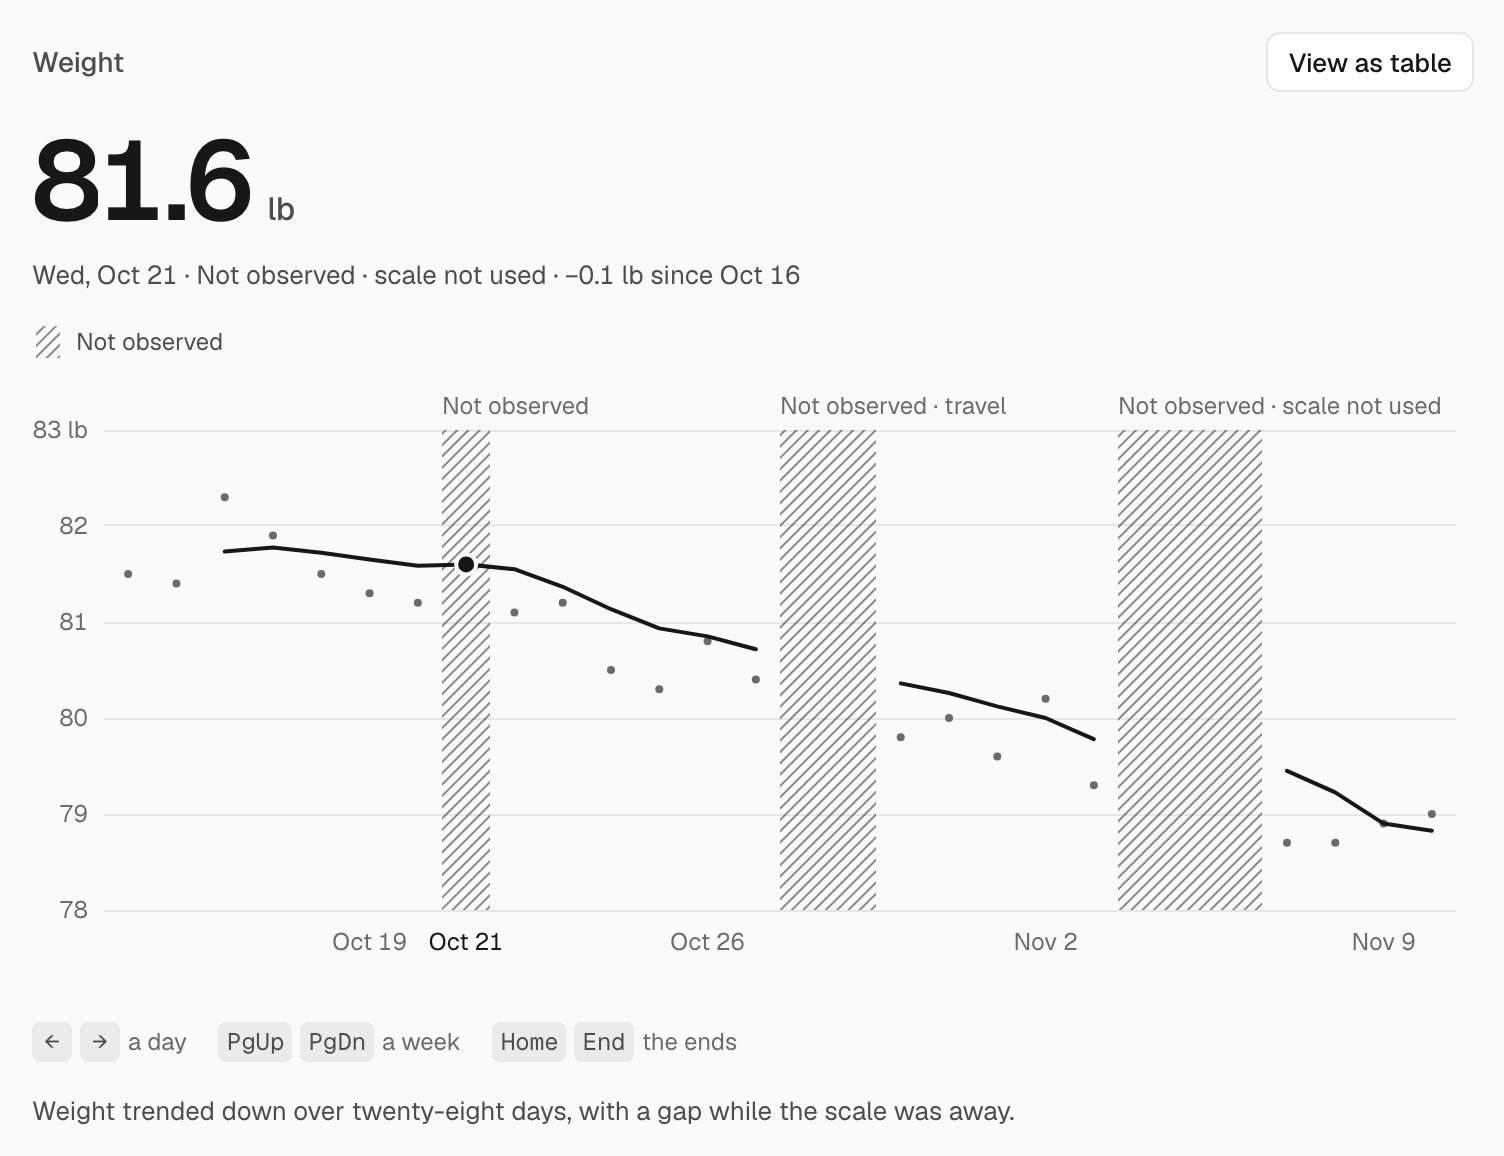
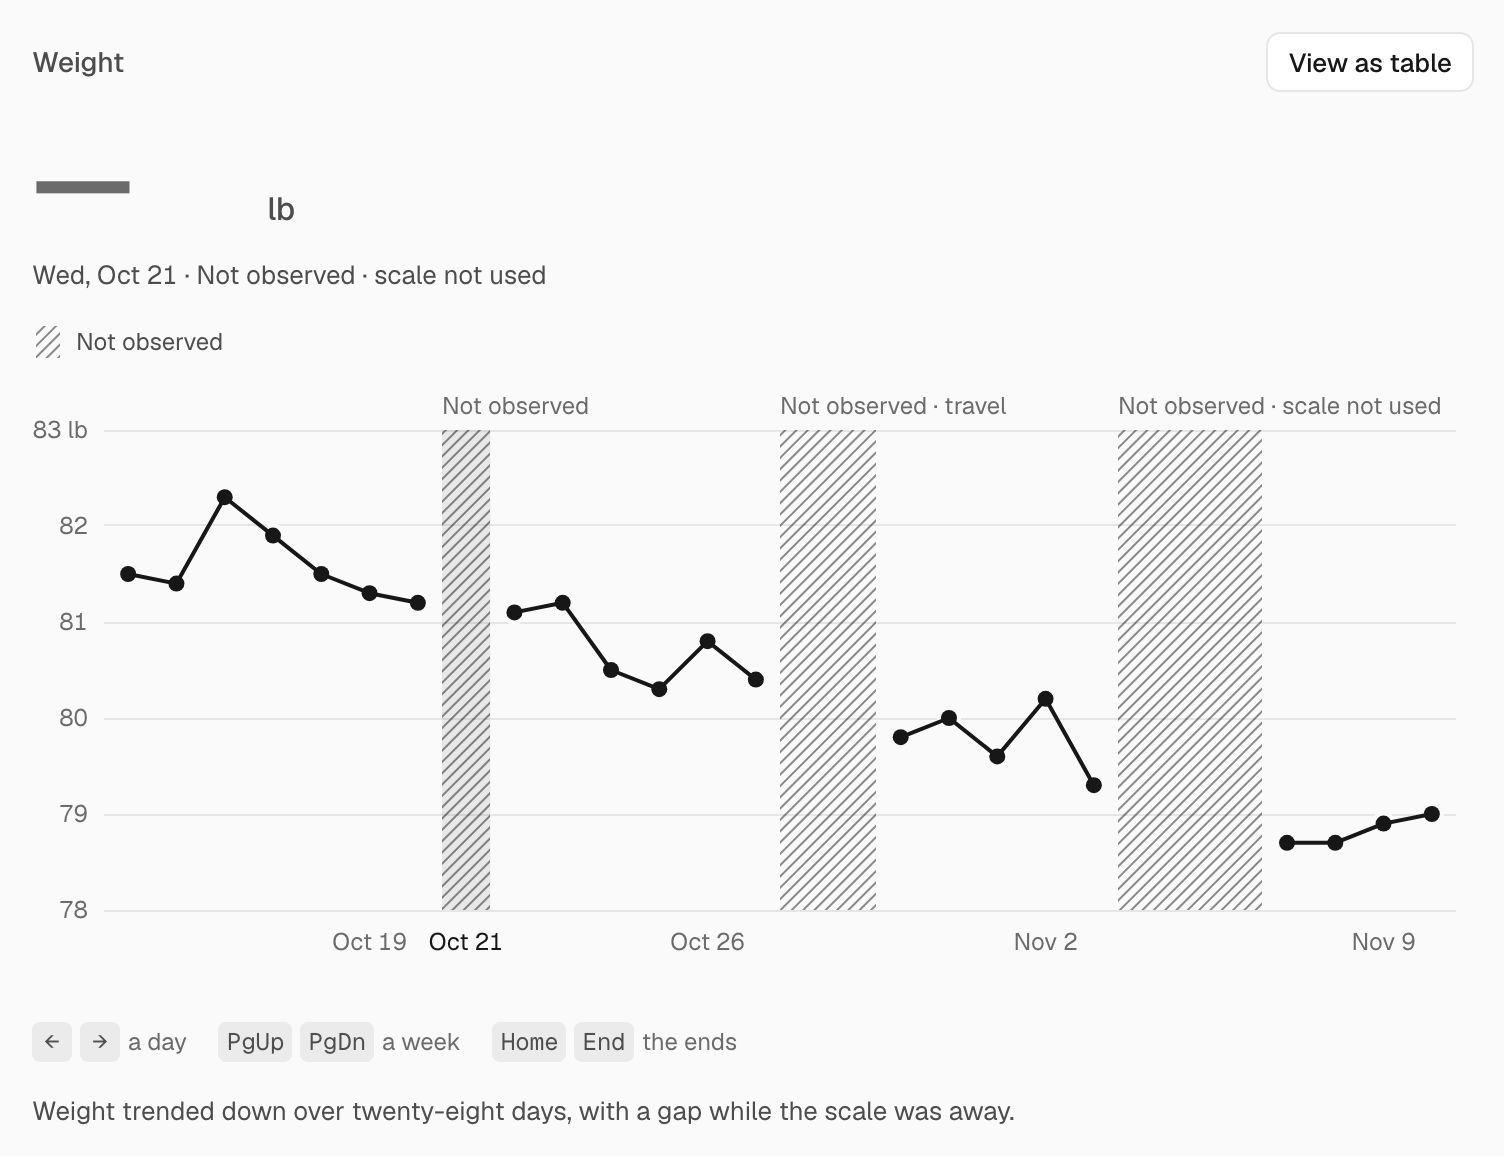
Round 69: re-shoot owner's-eye items 11 and 14
Item 11's chart has no trend, so the day with no reading shows the dash
beside the unit, the unit where it was. Item 14 is shot as touch at 800
(the review tool emulates a phone for round 69's touch state), so Go is its
word's width on the bar's line. Main's pictures of both re-shot from
db0bc418 with the same steps; the other pictures are unchanged.

diff --git a/tools/review/assets/round-69/index.ts b/tools/review/assets/round-69/index.ts
@@ -101,8 +101,8 @@ import p_eye_13_select_default_390_dark from "./eye-13-select-default-390-dark.j
 import p_eye_13_select_default_390_light from "./eye-13-select-default-390-light.jpg";
 import p_eye_14_go_default_800_dark from "./eye-14-go-default-800-dark.jpg";
 import p_eye_14_go_default_800_light from "./eye-14-go-default-800-light.jpg";
-import p_eye_14_go_go_800_dark from "./eye-14-go-go-800-dark.jpg";
-import p_eye_14_go_go_800_light from "./eye-14-go-go-800-light.jpg";
+import p_eye_14_go_touch_800_dark from "./eye-14-go-touch-800-dark.jpg";
+import p_eye_14_go_touch_800_light from "./eye-14-go-touch-800-light.jpg";
 export const BEFORE: Record<string, { src: string; width: number }> = {
   "eye-01-search-default-1440-dark": { src: p_eye_01_search_default_1440_dark, width: 591 },
   "eye-01-search-default-1440-light": { src: p_eye_01_search_default_1440_light, width: 596 },
@@ -206,6 +206,6 @@ export const BEFORE: Record<string, { src: string; width: number }> = {
   "eye-13-select-default-390-light": { src: p_eye_13_select_default_390_light, width: 357 },
   "eye-14-go-default-800-dark": { src: p_eye_14_go_default_800_dark, width: 800 },
   "eye-14-go-default-800-light": { src: p_eye_14_go_default_800_light, width: 800 },
-  "eye-14-go-go-800-dark": { src: p_eye_14_go_go_800_dark, width: 800 },
-  "eye-14-go-go-800-light": { src: p_eye_14_go_go_800_light, width: 800 },
+  "eye-14-go-touch-800-dark": { src: p_eye_14_go_touch_800_dark, width: 800 },
+  "eye-14-go-touch-800-light": { src: p_eye_14_go_touch_800_light, width: 800 },
 };

diff --git a/tools/review/round69.tsx b/tools/review/round69.tsx
@@ -118,7 +118,7 @@ function Before({ step, state }: { step: string; state: string }) {
   if (!picture) return <p style={note}>No picture of main for {key} (it is drawn from this round built on main: tools/review/round69-pairs.mjs).</p>;
   return (
     <figure style={{ margin: 0, display: "grid", gap: 6 }}>
-      <figcaption style={note}>Before: main (e396decf), the same state.</figcaption>
+      <figcaption style={note}>Before: main (e396decf; items 11 and 14 re-shot on db0bc418), the same state.</figcaption>
       <img src={picture.src} width={picture.width} alt={`Main: ${step}, ${state}`} style={{ maxWidth: "100%", height: "auto", border: "1px dashed var(--basalt-border-hairline)" }} />
     </figure>
   );
